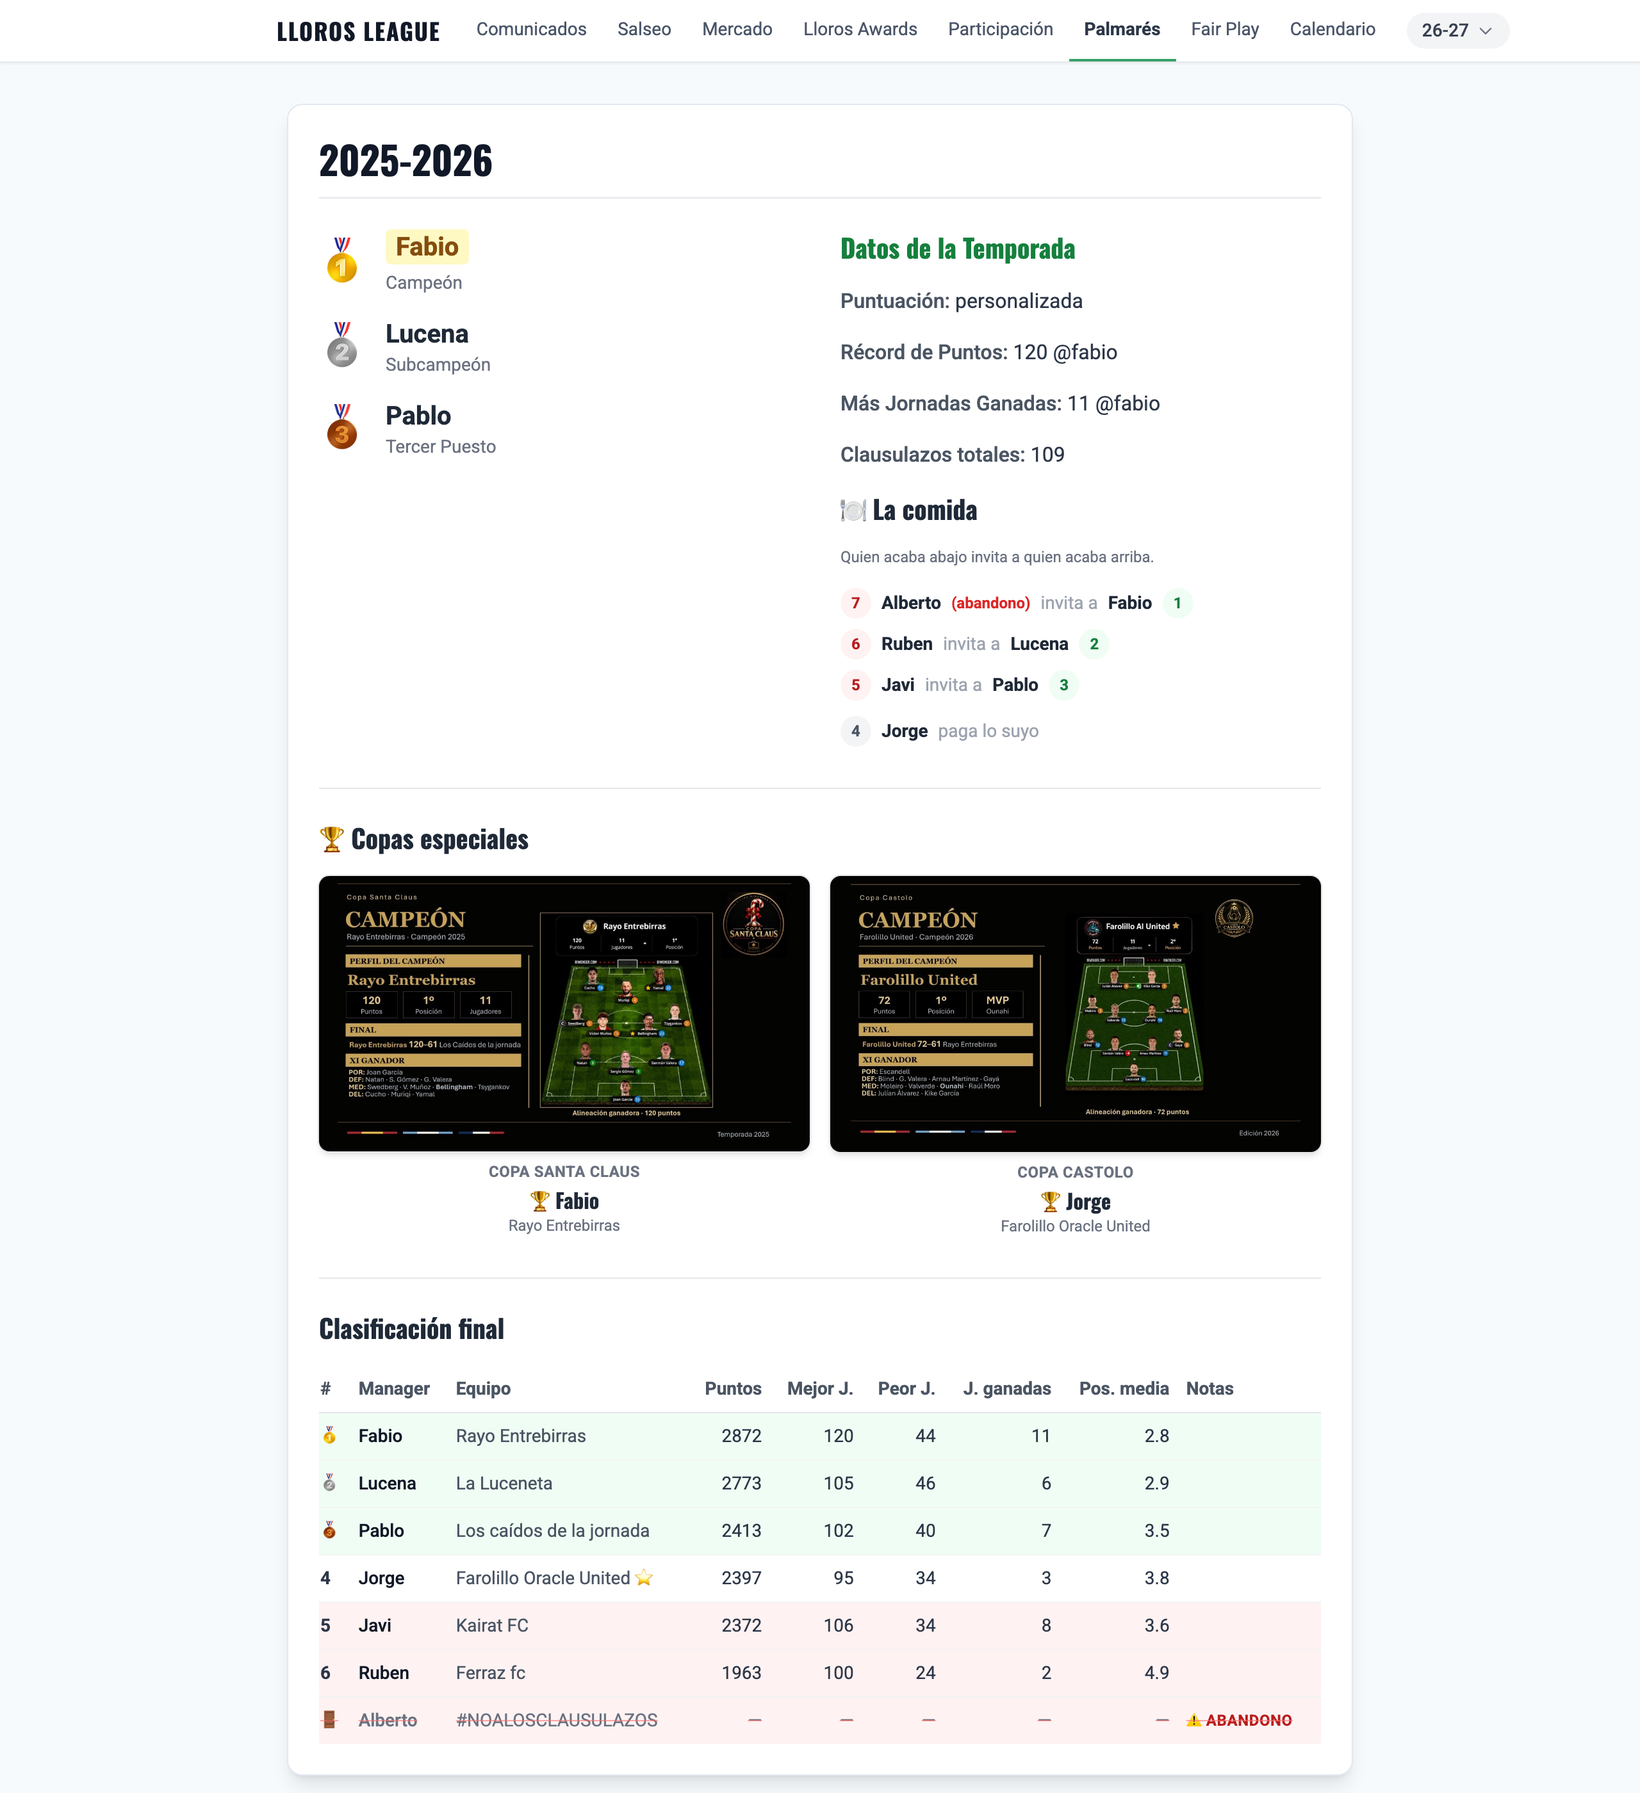
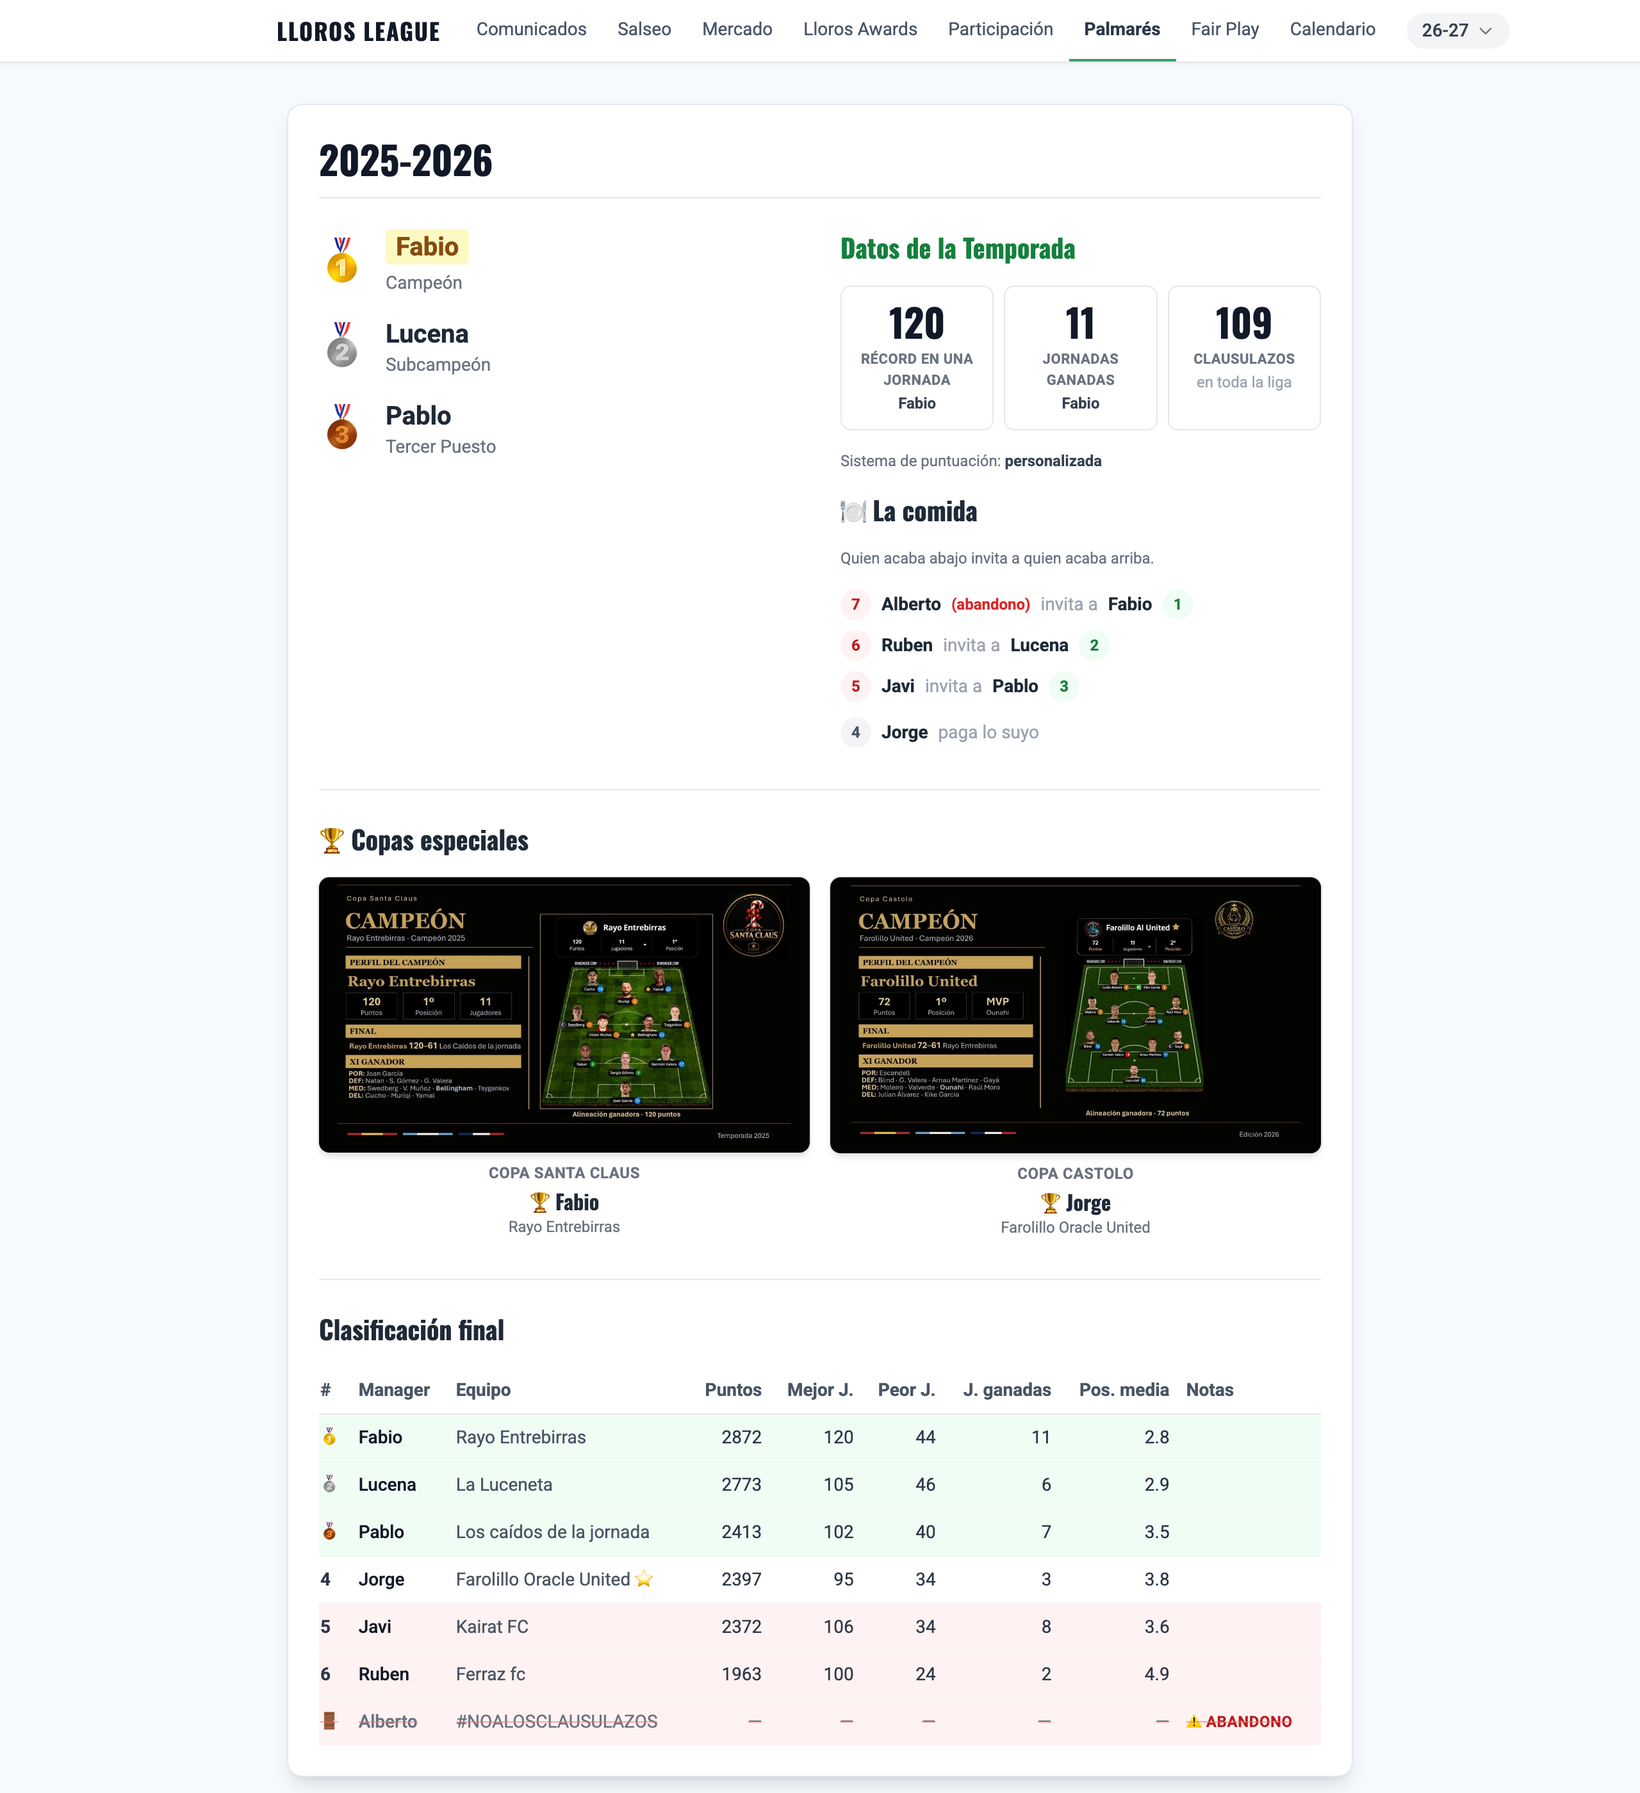
feat(biwenger_tools): season records as figures, and teach rollover about the cups (#284)
* feat(biwenger_tools): season records as figures, and teach rollover about the cups

**The stats block.** "Récord de Puntos: 120 @fabio" was a line of prose with the
number buried in the middle. Each record now leads with its figure and puts the
holder underneath, in the same tile style the reglamento already uses. The
handle is stored lowercase and gets capitalised to match the rest of the page.

Older seasons get the same treatment — they simply show two tiles instead of
three, since nobody counted clausulazos before 25-26. That is as standardised as
their data allows.

**The rollover gap.** `fetch_palmares.py` never wrote `copas`, the field the
palmarés reads to name each cup winner. Closing next season would have produced
a page with the winner graphics and no names — the exact problem that field was
added to solve. It now takes `--cup-winner SLUG=NAME=TEAM`, and SKILL.md gains a
step telling the assistant to ask: the Biwenger API knows nothing about the Copa
Santa Claus or the Copa Castolo, they are league inventions.

* chore: tidy PENDING — one infra section, draft skill under its package

Three things had drifted:

- two `## infra` headings, the second one mine from the screenshots entry
- the draft-skill follow-ups sat under `## my_photos`, which owns a different
  project entirely; they move to `biwenger_tools` under their own subheading
- two items were done: the Castolo graphic is in the bucket and all four
  packages now carry screenshots
[…]

diff --git a/packages/biwenger_tools/web/templates/palmares.html b/packages/biwenger_tools/web/templates/palmares.html
@@ -38,11 +38,33 @@
                 <!-- Datos de temporada -->
                 <div class="space-y-4">
                     <h3 class="font-header text-xl font-bold text-green-700">Datos de la Temporada</h3>
-                    <p><strong class="font-medium text-gray-600">Puntuación:</strong> {{ data.puntuacion }}</p>
-                    <p><strong class="font-medium text-gray-600">Récord de Puntos:</strong> {{ data.record_puntos }}</p>
-                    <p><strong class="font-medium text-gray-600">Más Jornadas Ganadas:</strong> {{ data.jornadas_ganadas }}</p>
-                    {% if data.clausulazos_total %}
-                    <p><strong class="font-medium text-gray-600">Clausulazos totales:</strong> {{ data.clausulazos_total }}</p>
+
+                    <div class="grid grid-cols-2 {% if data.clausulazos_total %}sm:grid-cols-3{% endif %} gap-2">
+                        {% if data.record.valor %}
+                        <div class="rounded-lg border border-gray-200 bg-white px-3 py-3 text-center">
+                            <p class="font-header text-3xl font-bold text-gray-900 leading-none">{{ data.record.valor }}</p>
+                            <p class="text-[11px] font-semibold uppercase tracking-wide text-gray-500 mt-1.5">Récord en una jornada</p>
+                            {% if data.record.quien %}<p class="text-xs text-gray-700 font-semibold mt-0.5">{{ data.record.quien }}</p>{% endif %}
+                        </div>
+                        {% endif %}
+                        {% if data.jornadas.valor %}
+                        <div class="rounded-lg border border-gray-200 bg-white px-3 py-3 text-center">
+                            <p class="font-header text-3xl font-bold text-gray-900 leading-none">{{ data.jornadas.valor }}</p>
+                            <p class="text-[11px] font-semibold uppercase tracking-wide text-gray-500 mt-1.5">Jornadas ganadas</p>
+                            {% if data.jornadas.quien %}<p class="text-xs text-gray-700 font-semibold mt-0.5">{{ data.jornadas.quien }}</p>{% endif %}
+                        </div>
+                        {% endif %}
+                        {% if data.clausulazos_total %}
+                        <div class="rounded-lg border border-gray-200 bg-white px-3 py-3 text-center">
+                            <p class="font-header text-3xl font-bold text-gray-900 leading-none">{{ data.clausulazos_total }}</p>
+                            <p class="text-[11px] font-semibold uppercase tracking-wide text-gray-500 mt-1.5">Clausulazos</p>
+                            <p class="text-xs text-gray-400 mt-0.5">en toda la liga</p>
+                        </div>
+                        {% endif %}
+                    </div>
+
+                    {% if data.puntuacion %}
+                    <p class="text-xs text-gray-500">Sistema de puntuación: <span class="font-semibold text-gray-700">{{ data.puntuacion }}</span></p>
                     {% endif %}
 
                     {% if data.comidas %}

diff --git a/.claude/skills/season-rollover/scripts/fetch_palmares.py b/.claude/skills/season-rollover/scripts/fetch_palmares.py
@@ -255,6 +255,28 @@ def _parse_abandoned(values: list[str]) -> list[tuple[str, str, str]]:
     return parsed
 
 
+def _parse_cup_winners(values: list[str]) -> dict:
+    """Parse ``SLUG=NAME=TEAM`` triples into the ``copas`` map.
+
+    The slug must match one in ``web.config.SPECIAL_TOURNAMENTS`` — the same
+    key the winner graphic is uploaded under — so the palmarés can print the
+    name beside the image instead of making everyone open it.
+    """
+    parsed = {}
+    for raw in values:
+        parts = raw.split("=", 2)
+        if len(parts) != 3:
+            print(
+                f"WARNING: --cup-winner '{raw}' is malformed "
+                "(need SLUG=NAME=TEAM); skipped.",
+                file=sys.stderr,
+            )
+            continue
+        slug, name, team = (x.strip() for x in parts)
+        parsed[slug] = {"ganador": name, "equipo": team}
+    return parsed
+
+
 def _write_to_firestore(palmares: Palmares, force: bool) -> bool:
     """Write to ``palmares/<season>``.
 
@@ -293,6 +315,15 @@ def main() -> None:
         help="Append a row for an account deleted mid-season; repeatable. "
         "Example: --abandoned-user 'Alberto=#NOALOSCLAUSULAZOS=abandono'. "
         "Leave the team slot empty if not known: 'Someone==abandono'.",
+    )
+    parser.add_argument(
+        "--cup-winner",
+        action="append",
+        default=[],
+        metavar="SLUG=NAME=TEAM",
+        help="Winner of a special cup; repeatable. The slug matches the one "
+        "the graphic is uploaded under. Example: "
+        "--cup-winner 'castolo-cup=Jorge=Farolillo Oracle United'.",
     )
     parser.add_argument(
         "--write-firestore",
@@ -369,6 +400,7 @@ def main() -> None:
     _append_abandoned(table, _parse_abandoned(args.abandoned_user))
 
     palmares = _build_palmares(args.season, table, clausulazos_total)
+    palmares.copas = _parse_cup_winners(args.cup_winner)
 
     # --- Output ---
     print("\n=== Firestore doc preview (palmares/{}) ===\n".format(args.season))

diff --git a/packages/biwenger_tools/web/tests/test_web_app.py b/packages/biwenger_tools/web/tests/test_web_app.py
@@ -215,6 +215,50 @@ def _standing(position, name, note=""):
     )
 
 
+def test_split_record_separates_the_figure_from_its_holder():
+    """Seasons store records as one string; the tiles need the two halves."""
+    assert main_routes._split_record("120 @fabio") == {
+        "valor": "120",
+        "quien": "Fabio",
+    }
+    assert main_routes._split_record("109") == {"valor": "109", "quien": ""}
+    assert main_routes._split_record("") == {}
+    assert main_routes._split_record(None) == {}
+
+
+@patch("packages.biwenger_tools.web.routes.main.repository.get_palmares")
+def test_palmares_shows_season_records_as_figures(mock_get, client):
+    """The number leads and the holder sits under it, instead of a prose line."""
+    mock_get.return_value = [
+        Palmares(
+            temporada="25-26",
+            campeon="Fabio",
+            record_puntos="120 @fabio",
+            jornadas_ganadas="11 @fabio",
+            clausulazos_total="109",
+            puntuacion="personalizada",
+        )
+    ]
+    body = client.get("/palmares").get_data(as_text=True)
+
+    assert "Récord en una jornada" in body
+    assert "Jornadas ganadas" in body
+    assert "Clausulazos" in body
+    # the "@" is gone: the handle renders on its own line
+    assert "120 @fabio" not in body
+
+
+@patch("packages.biwenger_tools.web.routes.main.repository.get_palmares")
+def test_palmares_hides_the_clausulazos_tile_when_the_season_has_none(mock_get, client):
+    """Seasons before 25-26 never counted them."""
+    mock_get.return_value = [
+        Palmares(temporada="23-24", campeon="Dani", record_puntos="101 @fabio")
+    ]
+    body = client.get("/palmares").get_data(as_text=True)
+    assert "Récord en una jornada" in body
+    assert "Clausulazos" not in body
+
+
 @patch("packages.biwenger_tools.web.routes.main.repository.get_palmares")
 def test_palmares_pairs_who_buys_lunch_for_whom(mock_get, client):
     """Reglamento 2.1: the bottom half pays for the top half, outside in.

diff --git a/packages/biwenger_tools/web/routes/main.py b/packages/biwenger_tools/web/routes/main.py
@@ -137,6 +137,23 @@ def home() -> Response:
     return redirect(url_for("season.comunicados", season=g.season))
 
 
+def _split_record(value: str) -> dict:
+    """Split a ``"120 @fabio"`` record into its number and its holder.
+
+    Every season stores these as one string. Splitting them lets the template
+    lead with the figure and put the name underneath, instead of a line of
+    prose nobody reads.
+    """
+    text = (value or "").strip()
+    if not text:
+        return {}
+    number, _, holder = text.partition("@")
+    holder = holder.strip()
+    # Stored as a lowercase handle; the rest of the page uses proper names.
+    holder = holder[:1].upper() + holder[1:]
+    return {"valor": number.strip(), "quien": holder}
+
+
 @bp.route("/palmares")
 def palmares() -> str:
     """Display historical records and awards.
@@ -213,6 +230,8 @@ def palmares() -> str:
                         "puntuacion": p.puntuacion,
                         "record_puntos": p.record_puntos,
                         "jornadas_ganadas": p.jornadas_ganadas,
+                        "record": _split_record(p.record_puntos),
+                        "jornadas": _split_record(p.jornadas_ganadas),
                         "clausulazos_total": p.clausulazos_total,
                         "standings_table": annotated_rows,
                         "multas": p.multas,

diff --git a/PENDING.md b/PENDING.md
@@ -50,17 +50,6 @@ Long-running follow-ups that don't yet warrant a plan or PR.
      are marked. This is what institutionalises openspec — an audit that warns,
      not a CI gate. (Mutmut stays on-demand by the same reasoning.)
 
-## infra
-
-- **Capturas en los READMEs — hecho para las webs, pendiente los bots.**
-  `biwenger_tools/web/docs/` y `be_water/web/docs/` ya tienen su galería de
-  cuatro capturas, referenciadas desde el README de cada paquete. Se generan a
-  mano: levantar el servicio con su `*_local` de Bazel y capturar con Chrome
-  headless (`--headless --force-device-scale-factor=2 --window-size=1280,H
-  --screenshot=...`) contra los datos reales de Firestore. Los dos bots de
-  Telegram ya tienen la suya, aportada por el usuario desde una conversación
-  real y reescalada a 620 px con `sips` — ahí no hay nada que automatizar.
-
 ## biwenger_tools
 
 - **Season 26-27 award sheets** (USER-OWNED first step) — the Lloros Awards pages
@@ -86,13 +75,10 @@ Long-running follow-ups that don't yet warrant a plan or PR.
   key → new secret version → redeploy, leaving this key dead on purpose.
   (26-27 sheets simply not created yet — separate item above.)
 
-- **Castolo cup image** (USER-OWNED) — upload `castolo-cup/25-26` when the
-  winner graphic exists: `gcloud storage cp` to
-  `gs://biwenger/special-tournaments/<slug>/<temporada>`, no redeploy needed
-  (runbook in `packages/biwenger_tools/OPERATIONS.md` §1). A brand-new cup
-  *type* is one line in `config.SPECIAL_TOURNAMENTS`.
+### Skill de draft
 
-## my_photos
+Todo lo aprendido en el draft 26-27. La skill vive en
+`.claude/skills/draft/`; estos son sus arreglos pendientes.
 
 - **Draft skill — international tournaments and player nationality.** The
   frozen market CSV carries team, position, points and price but **no
@@ -147,6 +133,7 @@ Long-running follow-ups that don't yet warrant a plan or PR.
   - **Provenance column in the final report** (`✅ real / ⚠ partial /
     ~ projection / 🎲 bet`). Hand-written this year; it was the most-used column
     of the session.
+
 - **Draft skill — fit the custom bonus table from this season's data.**
   `GET /players/la-liga/{slug}?fields=*,reports(*)` returns per-match `rawStats`
   (`win`, `cleanSheet`, `minutesPlayed`, base score), which is enough to
@@ -156,6 +143,7 @@ Long-running follow-ups that don't yet warrant a plan or PR.
   solve the table against those. If it closes, phase B becomes one request per
   candidate instead of asking the user to read numbers off the app. If it does
   not, record that and keep reading them by hand.
+
 - **Draft skill — the timings backfill leaves a one-pick hole.**
   `scripts/backfill_draft_timings.py` writes `applied_at`/`waited_seconds` onto
   the pick documents but not `turn_started_at` onto the state document. The live
@@ -164,6 +152,7 @@ Long-running follow-ups that don't yet warrant a plan or PR.
   26/27 draft and was patched by hand. FIX: have the backfill also stamp
   `turn_started_at` with the last matched pick's timestamp, so the handover to
   live tracking is seamless.
+
 - **Draft skill — the fetcher must be bounded (learned the hard way).**
   Biwenger's quota is **500 requests per 8-hour window, per account** (read off
   the `429` headers: `x-rate-limit-limit: 500`). Pulling all ~550 players in
@@ -171,6 +160,7 @@ Long-running follow-ups that don't yet warrant a plan or PR.
   including the bot. The rule is written into `SKILL.md`; the tool that enforces
   it does not exist yet: shortlist only, sequential with a delay, checkpoint to
   disk, stop on the first 429 instead of retrying.
+
 - **Draft skill — news due-diligence is entirely manual.** This season it
   produced three exclusions that changed the squad (Aubameyang: score earned
   in Ligue 1, now at a promoted side, 37; Carlos Soler: knee injury since
@@ -185,6 +175,8 @@ Long-running follow-ups that don't yet warrant a plan or PR.
   (so his only good figure was from 2022/23 at Betis), and Fortuño competing
   with Dmitrović for the Espanyol goal — on a keeper meant to be kept unclausable
   all season.
+
+## my_photos
 
 - **Photo-recognition project** — plan in `packages/my_photos/README.md`, not here.
   Blocked on USER: run the migration script and free up the disks.

diff --git a/.claude/skills/season-rollover/SKILL.md b/.claude/skills/season-rollover/SKILL.md
@@ -70,6 +70,21 @@ injected manually. Collect a list of `NAME=TEAM=REASON` triples — the team is 
 Biwenger team name the abandoned account had (so the palmarés card still shows it);
 leave the team slot empty if unknown.
 
+## Ask who won the cups
+
+The Biwenger API knows nothing about the Copa Santa Claus or the Copa Castolo —
+they are league inventions — so ask the user for each winner: the manager and
+the Biwenger team name they held. Pass them as `--cup-winner SLUG=NAME=TEAM`,
+where the slug is the one in `web.config.SPECIAL_TOURNAMENTS` (`santa-cup`,
+`castolo-cup`).
+
+Without this the palmarés still renders the winner graphics, but nobody can
+tell who won without opening the image — which is exactly what the `copas`
+field exists to avoid.
+
+Remind the user to upload the two graphics as well; without them the block is
+empty. Runbook: `packages/biwenger_tools/OPERATIONS.md` §1.
+
 ## Auto-fetch
 
 If credentials are available, source the env file and run the fetch script. Pass each
@@ -82,11 +97,15 @@ set -a && source packages/biwenger_tools/scraper_job/.env && set +a
 
 # Preview (no Firestore write)
 python .claude/skills/season-rollover/scripts/fetch_palmares.py <current_season> \
-  --abandoned-user "Alberto=#NOALOSCLAUSULAZOS=abandono"
+  --abandoned-user "Alberto=#NOALOSCLAUSULAZOS=abandono" \
+  --cup-winner "santa-cup=Fabio=Rayo Entrebirras" \
+  --cup-winner "castolo-cup=Jorge=Farolillo Oracle United"
 
 # Push to Firestore once the preview looks right
 python .claude/skills/season-rollover/scripts/fetch_palmares.py <current_season> \
   --abandoned-user "Alberto=#NOALOSCLAUSULAZOS=abandono" \
+  --cup-winner "santa-cup=Fabio=Rayo Entrebirras" \
+  --cup-winner "castolo-cup=Jorge=Farolillo Oracle United" \
   --write-firestore
 ```
 
